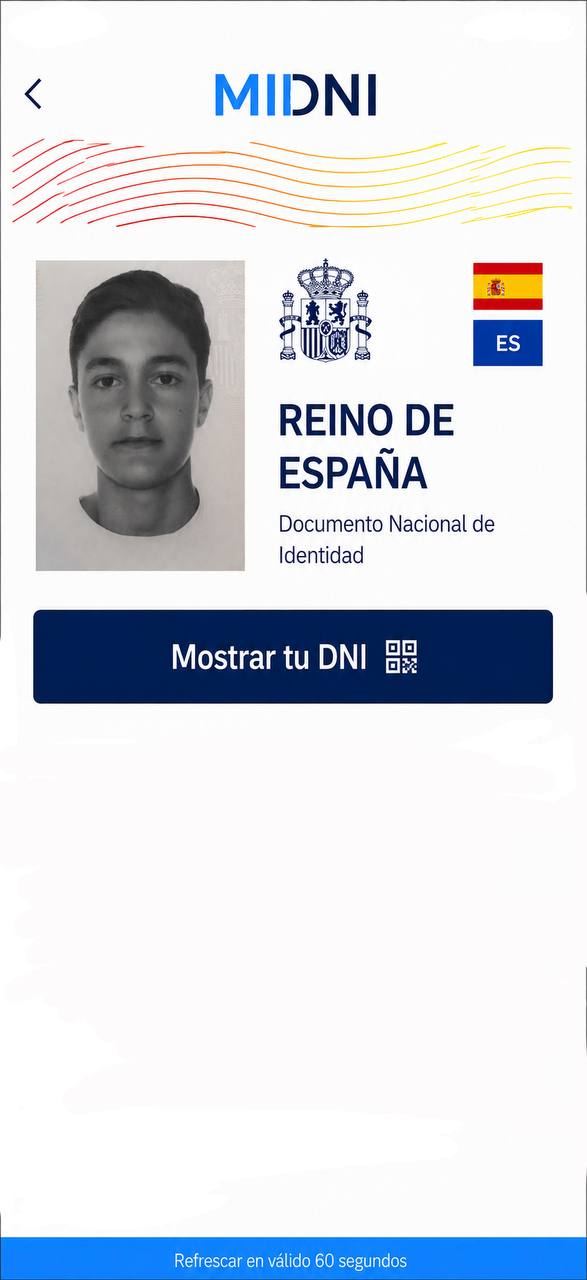
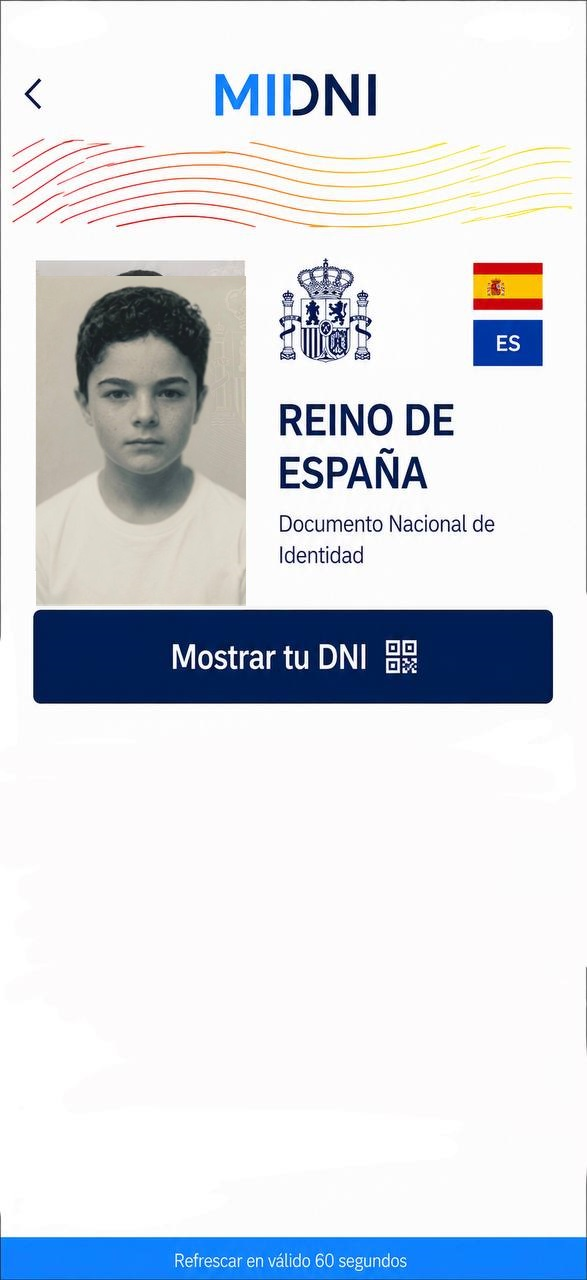
DNI simple: foto de Ignacio horneada en photo_simple.jpg (sin overlay, sin parpadeo)

Changed region(s): [[0.0613, 0.2188, 0.4293, 0.5]]

diff --git a/index.html b/index.html
@@ -63,8 +63,7 @@ body{position:fixed;top:0;left:0;right:0;bottom:0;overscroll-behavior:none;-webk
 #screen-completo .qr-overlay{top:44%}
 #screen-simple .screen-inner{margin-top:calc(-6vh + 2mm)}
 #screen-simple .bottom-bar{bottom:-18px}
-.simple-photo{position:absolute;left:6.0563%;top:20.5%;width:35.7746%;height:24.5%;overflow:hidden;pointer-events:none;z-index:40;background:url('./photo_ignacio.jpg') center/cover no-repeat}
-.simple-photo img{width:100%;height:100%;object-fit:cover;object-position:center;display:block}
+
 #screen-simple .bottom-bar-inner{transform:translateY(calc(-3px - 2mm))}
 #screen-qrscan .screen-inner{margin-top:calc(-6vh + 5mm)}
 .simple-data{position:absolute;top:56%;left:0;right:0;bottom:0;background:#fff;padding:12px 24px 56px;overflow-y:auto;-webkit-overflow-scrolling:touch;z-index:50;font-family:-apple-system,BlinkMacSystemFont,"SF Pro Text","SF Pro Display",sans-serif;touch-action:pan-y;overscroll-behavior:contain;-webkit-font-smoothing:antialiased;-moz-osx-font-smoothing:grayscale;text-rendering:optimizeLegibility}
@@ -232,7 +231,6 @@ body{position:fixed;top:0;left:0;right:0;bottom:0;overscroll-behavior:none;-webk
 <div class="screen" id="screen-simple">
   <div class="screen-inner">
     <img src="./photo_simple.jpg" class="screen-image" alt="" draggable="false" decoding="sync">
-    <div class="simple-photo"><img id="simplePhotoImg" src="./photo_ignacio.jpg" alt="" draggable="false" decoding="sync" loading="eager" fetchpriority="high"></div>
     <button class="hotspot hot-verify-back" id="sback" aria-label="Volver"></button>
     <button class="hotspot hot-simple-completo" id="sToCompleto" aria-label="DNI Completo"></button>
     <div class="simple-data">
@@ -529,8 +527,6 @@ body{position:fixed;top:0;left:0;right:0;bottom:0;overscroll-behavior:none;-webk
   document.getElementById('vcompleto').addEventListener('touchstart',function(e){e.preventDefault();openCompleto()},{passive:false});
   function openSimple(){
     if(counters['counter-verify']){clearInterval(counters['counter-verify']);counters['counter-verify']=null}
-    var _p=document.getElementById('simplePhotoImg');
-    if(_p&&_p.decode&&!document.hidden){try{_p.decode()}catch(_e){}}
     pushScreen('screen-simple');
     startCounter('counter-simple', function(){nextQr();startCounter('counter-verify')});
   }
@@ -592,14 +588,9 @@ body{position:fixed;top:0;left:0;right:0;bottom:0;overscroll-behavior:none;-webk
 
   /* ---- Splash fade-out + prefetch/decode fotos (evita parpadeo) ---- */
   window.addEventListener('load',function(){
-    var imgs=['./photo_ignacio.jpg','./photo_simple.jpg'];
-    for(var i=0;i<imgs.length;i++){
-      var im=new Image();
-      im.src=imgs[i];
-      if(im.decode)im.decode();
-    }
-    var el=document.getElementById('simplePhotoImg');
-    if(el&&el.decode)el.decode();
+    var im=new Image();
+    im.src='./photo_simple.jpg';
+    if(im.decode)im.decode();
     setTimeout(function(){document.getElementById('splashOverlay').classList.add('fade')},30)
   });
 
